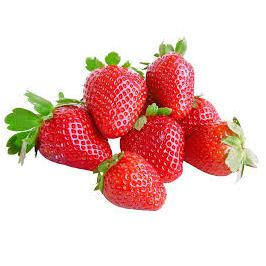
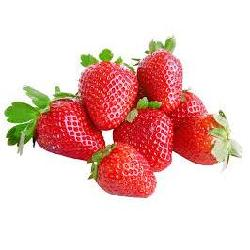
fixup! [ADD] pos_scale_demo

diff --git a/pos_scale_demo/__manifest__.py b/pos_scale_demo/__manifest__.py
@@ -10,15 +10,16 @@
     "license": "AGPL-3",
     "maintainers": ["legalsylvain"],
     "depends": [
-        # Odoo
+        # Odoo Repo
+        # https://github.com/odoo/odoo/
         "point_of_sale",
+        # OCA Repo
         # https://github.com/OCA/pos/
         "pos_scale_usability",
-        "pos_tare",
+        # "pos_tare",  TODO: FIXME, once pos_driver_scale is compatible
+        # Extra Repo
         # https://gitlab.com/odoo-driver/odoo-addons-driver
         "pos_driver_device_list",
-        "pos_driver_display",
-        "pos_driver_payment",
         "pos_driver_scale",
     ],
     "demo": [
